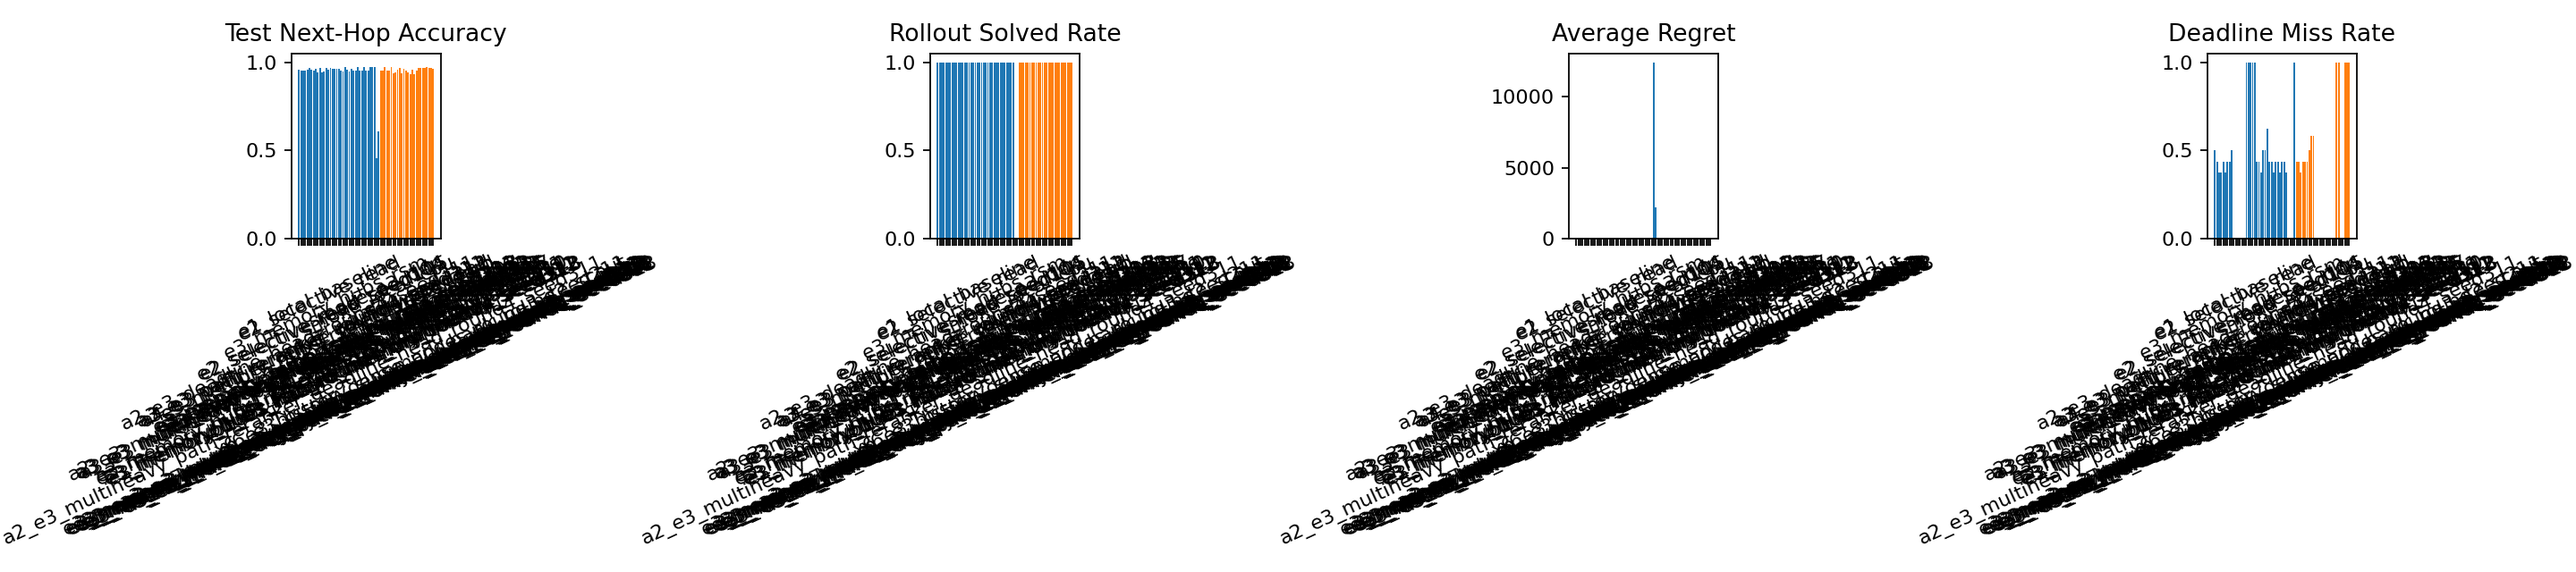
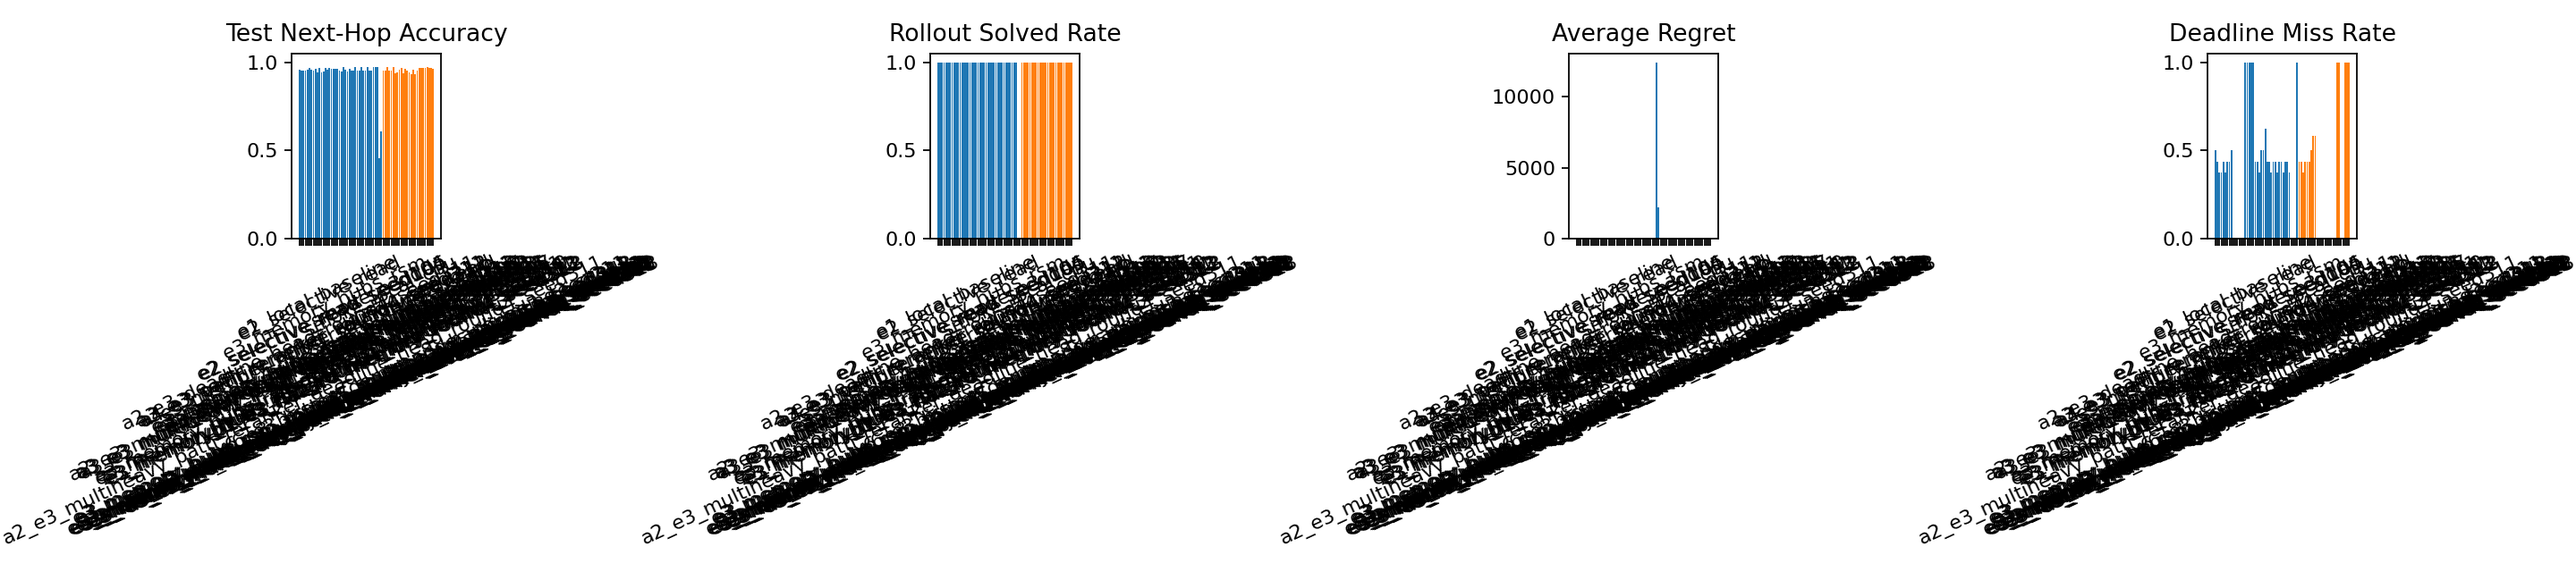
Reject multiheavy pairwise ranking loss

diff --git a/src/gnn3/train/trainer.py b/src/gnn3/train/trainer.py
@@ -123,6 +123,11 @@ def evaluate_decision_dataset(
     selection_soft_target_weight: float,
     selection_soft_target_temperature: float,
     selection_soft_target_on_time_bonus: float,
+    selection_pairwise_weight: float,
+    selection_pairwise_temperature: float,
+    selection_pairwise_on_time_bonus: float,
+    selection_pairwise_slack_bonus: float,
+    selection_pairwise_margin: float,
     quantiles: tuple[float, ...],
     verifier_aux_last_k_steps: int,
 ) -> dict[str, float]:
@@ -134,6 +139,7 @@ def evaluate_decision_dataset(
         "value_loss": 0.0,
         "route_loss": 0.0,
         "selection_soft_target_loss": 0.0,
+        "selection_pairwise_loss": 0.0,
         "on_time_loss": 0.0,
         "slack_loss": 0.0,
         "quantile_loss": 0.0,
@@ -161,6 +167,11 @@ def evaluate_decision_dataset(
             selection_soft_target_weight=selection_soft_target_weight,
             selection_soft_target_temperature=selection_soft_target_temperature,
             selection_soft_target_on_time_bonus=selection_soft_target_on_time_bonus,
+            selection_pairwise_weight=selection_pairwise_weight,
+            selection_pairwise_temperature=selection_pairwise_temperature,
+            selection_pairwise_on_time_bonus=selection_pairwise_on_time_bonus,
+            selection_pairwise_slack_bonus=selection_pairwise_slack_bonus,
+            selection_pairwise_margin=selection_pairwise_margin,
             quantiles=quantiles,
             verifier_aux_last_k_steps=verifier_aux_last_k_steps,
         )
@@ -365,6 +376,7 @@ def train_experiment(config: ExperimentConfig) -> dict[str, Any] | None:
             "value_loss": 0.0,
             "route_loss": 0.0,
             "selection_soft_target_loss": 0.0,
+            "selection_pairwise_loss": 0.0,
             "on_time_loss": 0.0,
             "slack_loss": 0.0,
             "quantile_loss": 0.0,
@@ -389,6 +401,11 @@ def train_experiment(config: ExperimentConfig) -> dict[str, Any] | None:
                     selection_soft_target_weight=config.train.selection_soft_target_weight,
                     selection_soft_target_temperature=config.train.selection_soft_target_temperature,
                     selection_soft_target_on_time_bonus=config.train.selection_soft_target_on_time_bonus,
+                    selection_pairwise_weight=config.train.selection_pairwise_weight,
+                    selection_pairwise_temperature=config.train.selection_pairwise_temperature,
+                    selection_pairwise_on_time_bonus=config.train.selection_pairwise_on_time_bonus,
+                    selection_pairwise_slack_bonus=config.train.selection_pairwise_slack_bonus,
+                    selection_pairwise_margin=config.train.selection_pairwise_margin,
                     quantiles=config.model.quantile_levels,
                     verifier_aux_last_k_steps=config.model.verifier_aux_last_k_steps,
                 )
@@ -417,6 +434,11 @@ def train_experiment(config: ExperimentConfig) -> dict[str, Any] | None:
                 selection_soft_target_weight=config.train.selection_soft_target_weight,
                 selection_soft_target_temperature=config.train.selection_soft_target_temperature,
                 selection_soft_target_on_time_bonus=config.train.selection_soft_target_on_time_bonus,
+                selection_pairwise_weight=config.train.selection_pairwise_weight,
+                selection_pairwise_temperature=config.train.selection_pairwise_temperature,
+                selection_pairwise_on_time_bonus=config.train.selection_pairwise_on_time_bonus,
+                selection_pairwise_slack_bonus=config.train.selection_pairwise_slack_bonus,
+                selection_pairwise_margin=config.train.selection_pairwise_margin,
                 quantiles=config.model.quantile_levels,
                 verifier_aux_last_k_steps=config.model.verifier_aux_last_k_steps,
             )
@@ -496,13 +518,18 @@ def train_experiment(config: ExperimentConfig) -> dict[str, Any] | None:
         route_weight=config.train.route_weight,
         deadline_bce_weight=config.train.deadline_bce_weight,
         slack_loss_weight=config.train.slack_loss_weight,
-        quantile_loss_weight=config.train.quantile_loss_weight,
-        selection_soft_target_weight=config.train.selection_soft_target_weight,
-        selection_soft_target_temperature=config.train.selection_soft_target_temperature,
-        selection_soft_target_on_time_bonus=config.train.selection_soft_target_on_time_bonus,
-        quantiles=config.model.quantile_levels,
-        verifier_aux_last_k_steps=config.model.verifier_aux_last_k_steps,
-    )
+                quantile_loss_weight=config.train.quantile_loss_weight,
+                selection_soft_target_weight=config.train.selection_soft_target_weight,
+                selection_soft_target_temperature=config.train.selection_soft_target_temperature,
+                selection_soft_target_on_time_bonus=config.train.selection_soft_target_on_time_bonus,
+                selection_pairwise_weight=config.train.selection_pairwise_weight,
+                selection_pairwise_temperature=config.train.selection_pairwise_temperature,
+                selection_pairwise_on_time_bonus=config.train.selection_pairwise_on_time_bonus,
+                selection_pairwise_slack_bonus=config.train.selection_pairwise_slack_bonus,
+                selection_pairwise_margin=config.train.selection_pairwise_margin,
+                quantiles=config.model.quantile_levels,
+                verifier_aux_last_k_steps=config.model.verifier_aux_last_k_steps,
+            )
     test_rollout = evaluate_rollouts(
         eval_model,
         test_dataset.episodes[: config.train.rollout_eval_episodes],

diff --git a/src/gnn3/models/packet_mamba.py b/src/gnn3/models/packet_mamba.py
@@ -865,6 +865,34 @@ def _selection_soft_target_loss(
     return -(target_probs * log_probs).sum(dim=-1).mean()
 
 
+def _selection_pairwise_ranking_loss(
+    *,
+    selection_scores: torch.Tensor,
+    batch: dict[str, torch.Tensor],
+    temperature: float,
+    on_time_bonus: float,
+    slack_bonus: float,
+    margin: float,
+) -> torch.Tensor:
+    valid_mask = batch["candidate_mask"] & batch["node_mask"]
+    temperature = max(float(temperature), 1e-3)
+    target_quality = -batch["candidate_cost_to_go"] / temperature
+    if on_time_bonus != 0.0:
+        target_quality = target_quality + on_time_bonus * batch["candidate_on_time"]
+    if slack_bonus != 0.0:
+        target_quality = target_quality + slack_bonus * torch.tanh(batch["candidate_slack"] / temperature)
+
+    pair_mask = valid_mask[:, :, None] & valid_mask[:, None, :]
+    target_gap = target_quality[:, :, None] - target_quality[:, None, :]
+    preferred_mask = pair_mask & (target_gap > 1e-6)
+    if not preferred_mask.any():
+        return selection_scores.new_tensor(0.0)
+
+    score_gap = selection_scores[:, :, None] - selection_scores[:, None, :]
+    pair_losses = F.softplus(float(margin) - score_gap)
+    return pair_losses[preferred_mask].mean()
+
+
 def compute_losses(
     output: dict[str, torch.Tensor],
     batch: dict[str, torch.Tensor],
@@ -878,6 +906,11 @@ def compute_losses(
     selection_soft_target_weight: float = 0.0,
     selection_soft_target_temperature: float = 1.0,
     selection_soft_target_on_time_bonus: float = 0.0,
+    selection_pairwise_weight: float = 0.0,
+    selection_pairwise_temperature: float = 1.0,
+    selection_pairwise_on_time_bonus: float = 0.0,
+    selection_pairwise_slack_bonus: float = 0.0,
+    selection_pairwise_margin: float = 0.0,
     quantiles: tuple[float, ...] = (0.1, 0.5, 0.9),
     verifier_aux_last_k_steps: int = 1,
 ) -> dict[str, torch.Tensor]:
@@ -896,6 +929,7 @@ def compute_losses(
     route_targets = batch["route_relevance"][batch["node_mask"]]
     route_loss = F.binary_cross_entropy_with_logits(route_logits, route_targets)
     selection_soft_target_loss = output["selection_scores"].new_tensor(0.0)
+    selection_pairwise_loss = output["selection_scores"].new_tensor(0.0)
     on_time_loss = output["selection_scores"].new_tensor(0.0)
     slack_loss = output["selection_scores"].new_tensor(0.0)
     quantile_loss = output["selection_scores"].new_tensor(0.0)
@@ -905,6 +939,15 @@ def compute_losses(
             batch=batch,
             temperature=selection_soft_target_temperature,
             on_time_bonus=selection_soft_target_on_time_bonus,
+        )
+    if selection_pairwise_weight > 0.0:
+        selection_pairwise_loss = _selection_pairwise_ranking_loss(
+            selection_scores=output["selection_scores"],
+            batch=batch,
+            temperature=selection_pairwise_temperature,
+            on_time_bonus=selection_pairwise_on_time_bonus,
+            slack_bonus=selection_pairwise_slack_bonus,
+            margin=selection_pairwise_margin,
         )
     if deadline_bce_weight > 0.0 or slack_weight > 0.0 or quantile_weight > 0.0:
         per_step_on_time = output.get("per_step_candidate_on_time_logits")
@@ -943,6 +986,7 @@ def compute_losses(
         + value_weight * value_loss
         + route_weight * route_loss
         + selection_soft_target_weight * selection_soft_target_loss
+        + selection_pairwise_weight * selection_pairwise_loss
         + deadline_bce_weight * on_time_loss
         + slack_weight * slack_loss
         + quantile_weight * quantile_loss
@@ -956,6 +1000,7 @@ def compute_losses(
         "value_loss": value_loss.detach(),
         "route_loss": route_loss.detach(),
         "selection_soft_target_loss": selection_soft_target_loss.detach(),
+        "selection_pairwise_loss": selection_pairwise_loss.detach(),
         "on_time_loss": on_time_loss.detach(),
         "slack_loss": slack_loss.detach(),
         "quantile_loss": quantile_loss.detach(),

diff --git a/tests/test_loss_coupling.py b/tests/test_loss_coupling.py
@@ -52,3 +52,29 @@ def test_selection_soft_target_loss_prefers_feasible_low_cost_actions() -> None:
     )
     assert float(better["selection_soft_target_loss"]) < float(worse["selection_soft_target_loss"])
     assert float(better["loss"]) < float(worse["loss"])
+
+
+def test_selection_pairwise_loss_prefers_feasible_low_cost_rankings() -> None:
+    batch = _batch()
+    better = compute_losses(
+        _output(torch.tensor([[3.0, 2.0, -1.0]], dtype=torch.float32)),
+        batch,
+        final_step_only=True,
+        selection_pairwise_weight=1.0,
+        selection_pairwise_temperature=1.0,
+        selection_pairwise_on_time_bonus=1.0,
+        selection_pairwise_slack_bonus=0.25,
+        selection_pairwise_margin=0.5,
+    )
+    worse = compute_losses(
+        _output(torch.tensor([[-1.0, 0.0, 3.0]], dtype=torch.float32)),
+        batch,
+        final_step_only=True,
+        selection_pairwise_weight=1.0,
+        selection_pairwise_temperature=1.0,
+        selection_pairwise_on_time_bonus=1.0,
+        selection_pairwise_slack_bonus=0.25,
+        selection_pairwise_margin=0.5,
+    )
+    assert float(better["selection_pairwise_loss"]) < float(worse["selection_pairwise_loss"])
+    assert float(better["loss"]) < float(worse["loss"])

diff --git a/scripts/plot_round5_results.py b/scripts/plot_round5_results.py
@@ -114,6 +114,17 @@ def main() -> None:
     soft_targets.to_csv(PLOTS / "round5_multiheavy_softtargets_vs_multiheavy.csv", index=False)
     _plot_compare(soft_targets, "round5_multiheavy_softtargets_vs_multiheavy.png", "SoftTargets")
 
+    pairwise = _summary_frame(
+        [
+            (311, "e3_memory_hubs_rsm_round4_multiheavy_seed311", "e3_memory_hubs_rsm_round5_multiheavy_pairwise_seed311"),
+            (312, "e3_memory_hubs_rsm_round4_multiheavy_seed312", "e3_memory_hubs_rsm_round5_multiheavy_pairwise_seed312"),
+            (313, "e3_memory_hubs_rsm_round4_multiheavy_seed313", "e3_memory_hubs_rsm_round5_multiheavy_pairwise_seed313"),
+        ],
+        "Pairwise",
+    )
+    pairwise.to_csv(PLOTS / "round5_multiheavy_pairwise_vs_multiheavy.csv", index=False)
+    _plot_compare(pairwise, "round5_multiheavy_pairwise_vs_multiheavy.png", "Pairwise")
+
 
 if __name__ == "__main__":
     main()

diff --git a/src/gnn3/train/config.py b/src/gnn3/train/config.py
@@ -54,6 +54,11 @@ class TrainConfig:
     selection_soft_target_weight: float = 0.0
     selection_soft_target_temperature: float = 1.0
     selection_soft_target_on_time_bonus: float = 0.0
+    selection_pairwise_weight: float = 0.0
+    selection_pairwise_temperature: float = 1.0
+    selection_pairwise_on_time_bonus: float = 0.0
+    selection_pairwise_slack_bonus: float = 0.0
+    selection_pairwise_margin: float = 0.0
 
 
 @dataclass(frozen=True)

diff --git a/reports/continuation_report_round5.md b/reports/continuation_report_round5.md
@@ -2,11 +2,12 @@
 
 ## Scope
 
-This pass tested three bounded non-reranker exploit changes on top of the robust plain `multiheavy` recipe:
+This pass tested four bounded non-reranker exploit changes on top of the robust plain `multiheavy` recipe:
 
 1. risk-biased checkpoint selection
 2. tighter training-only oracle-calibrated deadlines with fixed validation and test manifests
 3. deadline-aware soft action targets using existing candidate cost and on-time labels
+4. deadline-aware pairwise ranking loss using the same oracle candidate labels
 
 Key artifacts:
 
@@ -16,6 +17,8 @@ Key artifacts:
 - [round5_multiheavy_tighttrain_vs_multiheavy.png](/home/catid/gnn3/reports/plots/round5_multiheavy_tighttrain_vs_multiheavy.png)
 - [round5_multiheavy_softtargets_vs_multiheavy.csv](/home/catid/gnn3/reports/plots/round5_multiheavy_softtargets_vs_multiheavy.csv)
 - [round5_multiheavy_softtargets_vs_multiheavy.png](/home/catid/gnn3/reports/plots/round5_multiheavy_softtargets_vs_multiheavy.png)
+- [round5_multiheavy_pairwise_vs_multiheavy.csv](/home/catid/gnn3/reports/plots/round5_multiheavy_pairwise_vs_multiheavy.csv)
+- [round5_multiheavy_pairwise_vs_multiheavy.png](/home/catid/gnn3/reports/plots/round5_multiheavy_pairwise_vs_multiheavy.png)
 - [experiment_summary.csv](/home/catid/gnn3/reports/plots/experiment_summary.csv)
 
 Implementation changes:
@@ -24,9 +27,11 @@ Implementation changes:
 - selection-score wiring in [trainer.py](/home/catid/gnn3/src/gnn3/train/trainer.py)
 - split-specific train/val/test hidden-corridor overrides in [config.py](/home/catid/gnn3/src/gnn3/train/config.py)
 - deadline-aware soft-target selection loss in [packet_mamba.py](/home/catid/gnn3/src/gnn3/models/packet_mamba.py)
+- deadline-aware pairwise ranking loss in [packet_mamba.py](/home/catid/gnn3/src/gnn3/models/packet_mamba.py)
 - matched round-five configs in [e3_memory_hubs_rsm_round5_multiheavy_tail_select_seed311.yaml](/home/catid/gnn3/configs/experiments/e3_memory_hubs_rsm_round5_multiheavy_tail_select_seed311.yaml), [e3_memory_hubs_rsm_round5_multiheavy_tail_select_seed312.yaml](/home/catid/gnn3/configs/experiments/e3_memory_hubs_rsm_round5_multiheavy_tail_select_seed312.yaml), and [e3_memory_hubs_rsm_round5_multiheavy_tail_select_seed313.yaml](/home/catid/gnn3/configs/experiments/e3_memory_hubs_rsm_round5_multiheavy_tail_select_seed313.yaml)
 - matched tighter-train configs in [e3_memory_hubs_rsm_round5_multiheavy_tighttrain_seed311.yaml](/home/catid/gnn3/configs/experiments/e3_memory_hubs_rsm_round5_multiheavy_tighttrain_seed311.yaml), [e3_memory_hubs_rsm_round5_multiheavy_tighttrain_seed312.yaml](/home/catid/gnn3/configs/experiments/e3_memory_hubs_rsm_round5_multiheavy_tighttrain_seed312.yaml), and [e3_memory_hubs_rsm_round5_multiheavy_tighttrain_seed313.yaml](/home/catid/gnn3/configs/experiments/e3_memory_hubs_rsm_round5_multiheavy_tighttrain_seed313.yaml)
 - matched soft-target configs in [e3_memory_hubs_rsm_round5_multiheavy_softtargets_seed311.yaml](/home/catid/gnn3/configs/experiments/e3_memory_hubs_rsm_round5_multiheavy_softtargets_seed311.yaml), [e3_memory_hubs_rsm_round5_multiheavy_softtargets_seed312.yaml](/home/catid/gnn3/configs/experiments/e3_memory_hubs_rsm_round5_multiheavy_softtargets_seed312.yaml), and [e3_memory_hubs_rsm_round5_multiheavy_softtargets_seed313.yaml](/home/catid/gnn3/configs/experiments/e3_memory_hubs_rsm_round5_multiheavy_softtargets_seed313.yaml)
+- matched pairwise configs in [e3_memory_hubs_rsm_round5_multiheavy_pairwise_seed311.yaml](/home/catid/gnn3/configs/experiments/e3_memory_hubs_rsm_round5_multiheavy_pairwise_seed311.yaml), [e3_memory_hubs_rsm_round5_multiheavy_pairwise_seed312.yaml](/home/catid/gnn3/configs/experiments/e3_memory_hubs_rsm_round5_multiheavy_pairwise_seed312.yaml), and [e3_memory_hubs_rsm_round5_multiheavy_pairwise_seed313.yaml](/home/catid/gnn3/configs/experiments/e3_memory_hubs_rsm_round5_multiheavy_pairwise_seed313.yaml)
 - selection regression tests in [test_trainer_selection.py](/home/catid/gnn3/tests/test_trainer_selection.py)
 - split-override regression coverage in [test_config_split_overrides.py](/home/catid/gnn3/tests/test_config_split_overrides.py)
 - soft-target loss regression coverage in [test_loss_coupling.py](/home/catid/gnn3/tests/test_loss_coupling.py)
@@ -115,12 +120,40 @@ What did not change:
 - the held-out test rollout stayed identical to the existing `multiheavy` baseline on all three matched seeds
 - no matched-seed gain appeared in regret, p95 regret, deadline miss rate, or rollout next-hop accuracy
 
+## Deadline-Aware Pairwise Ranking Scout
+
+Matched three-seed comparison against the same plain `multiheavy` baseline, but with a bounded pairwise ranking loss built from the existing candidate cost-to-go, on-time, and slack labels:
+
+- multiheavy mean next-hop accuracy: `95.82%`
+- pairwise mean next-hop accuracy: `96.10%`
+- multiheavy mean rollout next-hop accuracy: `95.52%`
+- pairwise mean rollout next-hop accuracy: `95.52%`
+- multiheavy mean regret: `1.32`
+- pairwise mean regret: `1.32`
+- multiheavy mean p95 regret: `4.77`
+- pairwise mean p95 regret: `4.77`
+- multiheavy mean deadline miss rate: `41.7%`
+- pairwise mean deadline miss rate: `41.7%`
+
+What changed:
+
+- the trainer now carries an explicit `selection_pairwise_loss` through train, validation, and test
+- selected epochs moved to `2 / 2 / 3`
+- the auxiliary pairwise loss stayed finite on every seed at test time: `0.299`, `0.292`, `0.336`
+- seed `313` had a rough first epoch before recovering to the same held-out rollout as baseline
+
+What did not change:
+
+- the held-out test rollout stayed identical to the existing `multiheavy` baseline on all three matched seeds
+- no matched-seed gain appeared in regret, p95 regret, deadline miss rate, or rollout next-hop accuracy
+
 ## Decision
 
-All three round-five exploit changes are clean negatives.
+All four round-five exploit changes are clean negatives.
 
 Checkpoint-selection policy alone is not the next leverage point for this repo. Tightening the training-only deadline contract also is not enough on its own. Both changes moved internal training behavior, but neither changed the actual held-out rollout once the current plain `multiheavy` model had trained.
 Deadline-aware soft action targets also are not enough on their own. They changed selected checkpoints and introduced a stable auxiliary loss, but they still did not move held-out rollout quality.
+Deadline-aware pairwise ranking also is not enough on its own. It pushed the policy with a stronger relative-ordering objective than soft targets, but it still converged to the same held-out rollout as plain `multiheavy`.
 
 Updated recommendation:
 
@@ -128,4 +161,5 @@ Updated recommendation:
 2. Do not spend more time on rerankers or selector-only tuning for now.
 3. Do not spend another cycle on train-only deadline tightening by itself; it changed train manifests but not held-out rollout.
 4. Do not spend another cycle on soft candidate distillation alone; it changed internal losses but not the held-out rollout.
-5. If exploit work continues, the next lever must change the learned policy more materially than checkpoint ranking, train-distribution tightening, or soft candidate coupling alone.
+5. Do not spend another cycle on pairwise action-ranking loss alone; it altered the ordering objective directly, but the matched held-out rollout still stayed flat.
+6. If exploit work continues, the next lever must change the learned policy more materially than checkpoint ranking, train-distribution tightening, soft candidate coupling, or pairwise ranking alone.

diff --git a/reports/portfolio_balance.md b/reports/portfolio_balance.md
@@ -51,14 +51,15 @@
 | A5-R5-tail-select | exploit | Test whether risk-biased checkpoint selection alone can improve plain multiheavy tail regret and deadline behavior without changing the learned policy. | 0.32 | 0.3151 | completed | Negative matched 3-seed result: selected epochs changed to 3/2/2, but all held-out rollout metrics matched plain multiheavy exactly. |
 | A6-R5-tighttrain | exploit | Test whether tighter training-only oracle-calibrated deadlines improve plain multiheavy tail regret and miss rate while holding validation/test manifests fixed. | 0.25 | 0.2348 | completed | Negative matched 3-seed result: train-manifest hashes changed, but all held-out rollout metrics matched plain multiheavy exactly. |
 | A7-R5-softtargets | exploit | Test whether deadline-aware soft action targets built from candidate cost/on-time labels can move plain multiheavy held-out rollout without adding new architecture. | 0.32 | 0.3016 | completed | Negative matched 3-seed result: selected epochs changed to 4/2/2 and the auxiliary loss stayed well behaved, but all held-out rollout metrics matched plain multiheavy exactly. |
+| A8-R5-pairwise | exploit | Test whether deadline-aware pairwise action-ranking loss built from candidate cost/on-time/slack labels can move plain multiheavy held-out rollout without adding new architecture. | 0.36 | 0.3389 | completed | Negative matched 3-seed result: selected epochs changed to 2/2/3 and the auxiliary ranking loss stayed well behaved, but all held-out rollout metrics matched plain multiheavy exactly. |
 
 Current cumulative GPU-hours:
 
 - Round-four-plus-follow-up exploit: `1.8310`
 - Round-four-plus-follow-up explore: `0.8678`
 - Round-four-plus-follow-up split: `67.8% / 32.2%`
-- Round-five exploit-only batch: `0.8515`
+- Round-five exploit-only batch: `1.1904`
 - Round-five split: `100.0% / 0.0%`
-- Overall exploit: `3.9512`
+- Overall exploit: `4.2901`
 - Overall explore: `2.0475`
-- Overall split: `65.9% / 34.1%`
+- Overall split: `67.7% / 32.3%`

diff --git a/reports/next_best_actions.md b/reports/next_best_actions.md
@@ -9,7 +9,8 @@
 7. Do not spend another cycle on checkpoint-selection tuning alone. The matched round-five tail-select scout chose earlier checkpoints on all three seeds, but every held-out rollout stayed identical to plain multiheavy.
 8. Do not spend another cycle on tighter training-only deadlines alone. The matched three-seed tight-train scout changed the train manifests but still matched plain multiheavy exactly on held-out rollout.
 9. Do not spend another cycle on soft action-target coupling alone. The matched three-seed soft-target scout changed selected epochs and carried a stable auxiliary loss, but every held-out rollout still matched plain multiheavy exactly.
-10. The next highest-value batch is:
+10. Do not spend another cycle on pairwise action-ranking loss alone. The matched three-seed pairwise scout changed selected epochs and carried a stable ranking loss, but every held-out rollout still matched plain multiheavy exactly.
+11. The next highest-value batch is:
    first, keep plain multiheavy as the exploit default;
    second, focus on non-reranker changes that alter the learned policy more materially on the shared suites;
    third, revisit auxiliary heads only if they move held-out rollout on plain multiheavy rather than calibration metrics alone.
